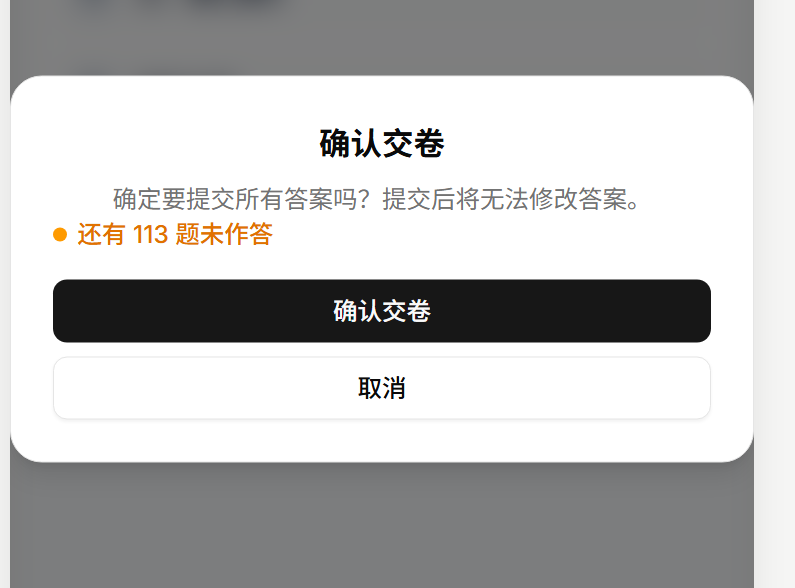
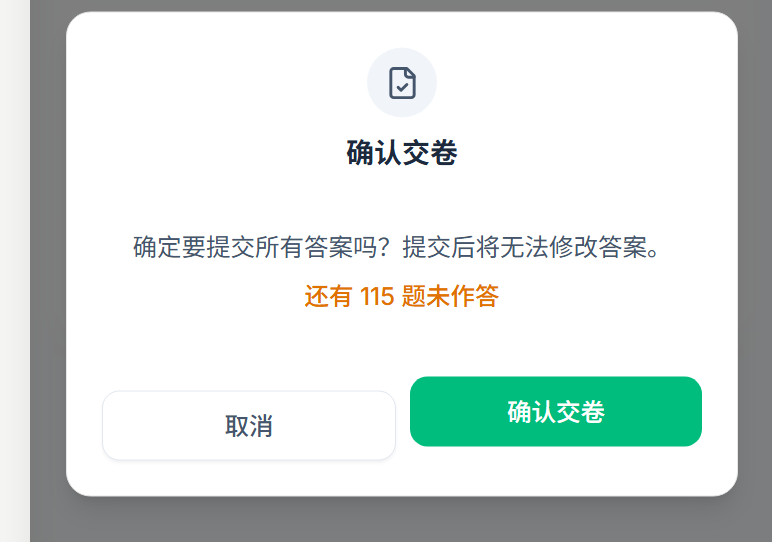
fix: 优化交卷弹窗按钮在小屏的显示效果

diff --git a/src/app/quiz/page.tsx b/src/app/quiz/page.tsx
@@ -596,13 +596,13 @@ function QuizPageContent() {
                     </p>
                   )}
                 </div>
-                <div className="flex gap-2">
-                  <AlertDialogCancel className="flex-1 h-10 rounded-lg border border-slate-200 bg-white text-slate-600 text-sm font-medium hover:bg-slate-50">
+                <div className="flex gap-2 sm:gap-3">
+                  <AlertDialogCancel className="flex-1 min-w-0 px-3 h-10 rounded-lg border border-slate-200 bg-white text-slate-600 text-xs sm:text-sm font-medium hover:bg-slate-50 whitespace-nowrap">
                     取消
                   </AlertDialogCancel>
                   <AlertDialogAction 
                     onClick={handleFinishAndExit}
-                    className="flex-1 h-10 rounded-lg bg-emerald-500 hover:bg-emerald-600 text-white text-sm font-medium"
+                    className="flex-1 min-w-0 px-3 h-10 rounded-lg bg-emerald-500 hover:bg-emerald-600 text-white text-xs sm:text-sm font-medium whitespace-nowrap"
                   >
                     确认交卷
                   </AlertDialogAction>
